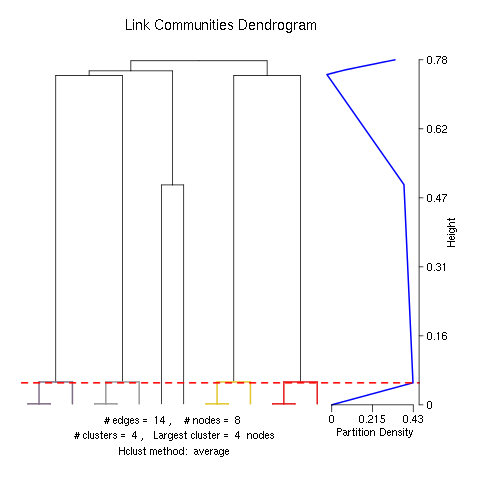
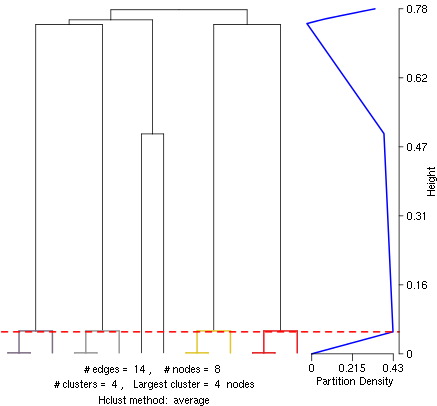
Modified images to fit better in report. Updated captions.

diff --git a/Report/report.tex b/Report/report.tex
@@ -1,9 +1,11 @@
-\documentclass{report}
+\documentclass{report} % change to article
 
 \usepackage[margin=1in]{geometry}
 \usepackage{url}
 \usepackage{graphicx}
 \usepackage{grffile}
+\usepackage{caption}
+\usepackage{subcaption}
 
 \graphicspath{{../ExampleDatasets/}}
 \DeclareGraphicsExtensions{.png}
@@ -61,114 +63,156 @@ Used a Python script to calculate link similarity between edges (based on linkco
 Used an R script to calculate attribute similarity between edges and combine the two similarity measures based on previous equation.
 Visualization of results was created using existing linkcomm R package (which itself used iGraph).\\
 
-Implementation heavily reused existing stuff\footnote{http://barabasilab.neu.edu/projects/linkcommunities/}. Available as open-source\footnote{https://github.com/jtan189/linkcomm}.
+Implementation heavily reused existing programs\footnote{http://barabasilab.neu.edu/projects/linkcommunities/}. Available as open-source\footnote{https://github.com/jtan189/linkcomm}.
 
 \subsection*{Toy Dataset \#1}
 
 \begin{figure}[htp!]
   \centering
-  \includegraphics[width=0.65\linewidth]{toy2/orig.png}
+  \includegraphics[width=0.55\linewidth]{toy2/orig.png}
   \caption{Original graph for Toy Dataset \#1.}
 \end{figure}
 
-Structural similarity only:
+\begin{figure}
+\centering
+\begin{subfigure}{.5\textwidth}
+  \centering
+  \includegraphics[width=.8\linewidth]{toy2/no_ea/edge_comm.png}
+  \caption{Using structural similarity only.}
+  \label{fig:sub1}
+\end{subfigure}%
+\begin{subfigure}{.5\textwidth}
+  \centering
+  \includegraphics[width=.9\linewidth]{toy2/ea/edge_comm_0.1.png}
+  \caption{Using both, 10\% structural.}
+  \label{fig:sub2}
+\end{subfigure}
+\caption{Communities extracted from Toy Dataset \#1.}
+\label{fig:test}
+\end{figure}
+
+% \begin{figure}[htp!]
+%   \centering
+%   \includegraphics[width=0.65\linewidth]{toy2/no_ea/edge_comm.png}
+%   \caption{Communities using structural similarity only.}
+% \end{figure}
+
+% \begin{figure}[htp!]
+%   \centering
+%   \includegraphics[width=0.65\linewidth]{toy2/no_ea/lc.png}
+%   \caption{Link communities dendogram using structural similarity only.}
+% \end{figure}
+
+
+% \begin{figure}[htp!]
+%   \centering
+%   \includegraphics[width=0.65\linewidth]{toy2/ea/edge_comm_0.1.png}
+%   \caption{Communities using both, 10 percent structural.}
+% \end{figure}
 
 \begin{figure}[htp!]
   \centering
-  \includegraphics[width=0.65\linewidth]{toy2/no_ea/edge_comm.png}
-  \caption{Communities using structural similarity only.}
+  \includegraphics[width=0.5\linewidth]{toy2/ea/edge_comm_0.25.png}
+  \caption{Communities for Toy Dataset \#1. Using both, 25\% structural.}
 \end{figure}
 
 \begin{figure}[htp!]
   \centering
-  \includegraphics[width=0.65\linewidth]{toy2/no_ea/lc.png}
-  \caption{Link communities dendogram using structural similarity only.}
-\end{figure}
-
-Structural similarity and edge attribute similarity:
-
-\begin{figure}[htp!]
-  \centering
-  \includegraphics[width=0.65\linewidth]{toy2/ea/edge_comm_0.1.png}
-  \caption{Communities using both, 10 percent structural.}
+  \includegraphics[width=0.6\linewidth]{toy2/ea/lc_0.1.png}
+  \caption{Link communities dendogram for Toy Dataset \#1. Using both, 10\% structural.}
 \end{figure}
 
 \begin{figure}[htp!]
   \centering
-  \includegraphics[width=0.65\linewidth]{toy2/ea/edge_comm_0.25.png}
-  \caption{Communities using both, 25 percent structural.}
+  \includegraphics[width=0.6\linewidth]{toy2/ea/lc_0.25.png}
+  \caption{Link communities dendogram for Toy Dataset \# 1. Using both, 25\% structural.}
 \end{figure}
 
-\begin{figure}[htp!]
+\begin{figure}
+\centering
+\begin{subfigure}{.4\textwidth}
   \centering
-  \includegraphics[width=0.65\linewidth]{toy2/ea/lc_0.1.png}
-  \caption{Link communities dendogram using both, 10 percent structural.}
-\end{figure}
-
-\begin{figure}[htp!]
+  \includegraphics[width=.7\linewidth]{toy2/ea/top20_0.1.png}
+  \caption{Using both, 10\% structural.}
+  \label{fig:sub3}
+\end{subfigure}%
+\begin{subfigure}{.6\textwidth}
   \centering
-  \includegraphics[width=0.65\linewidth]{toy2/ea/lc_0.25.png}
-  \caption{Link communities dendogram using both, 25 percent structural.}
+  \includegraphics[width=.6\linewidth]{toy2/ea/top20_0.25.png}
+  \caption{Using both, 25\% structural.}
+  \label{fig:sub4}
+\end{subfigure}
+\caption{Community membership for Toy Dataset \#1.}
+\label{fig:test2}
 \end{figure}
 
-\begin{figure}[htp!]
-  \centering
-  \includegraphics[width=0.65\linewidth]{toy2/ea/top20_0.1.png}
-  \caption{Community membership using both, 10 percent structural.}
-\end{figure}
+% \begin{figure}[htp!]
+%   \centering
+%   \includegraphics[width=0.65\linewidth]{toy2/ea/top20_0.1.png}
+%   \caption{Community membership using both, 10 percent structural.}
+% \end{figure}
 
-\begin{figure}[htp!]
-  \centering
-  \includegraphics[width=0.65\linewidth]{toy2/ea/top20_0.25.png}
-  \caption{Community membership using both, 25 percent structural.}
-\end{figure}
-
-
-
+% \begin{figure}[htp!]
+%   \centering
+%   \includegraphics[width=0.65\linewidth]{toy2/ea/top20_0.25.png}
+%   \caption{Community membership using both, 25 percent structural.}
+% \end{figure}
 
 \subsection*{Toy Dataset \#2}
 
 \begin{figure}[htp!]
   \centering
-  \includegraphics[width=0.65\linewidth]{toy3/orig.png}
+  \includegraphics[width=0.5\linewidth]{toy3/orig.png}
   \caption{Original graph for toy Dataset \#2.}
 \end{figure}
 
+\begin{figure}
+\centering
+\begin{subfigure}{.5\textwidth}
+  \centering
+  \includegraphics[width=.8\linewidth]{toy3/no_ea/edge_comm.png}
+  \caption{Using structural similarity only.}
+  \label{fig:sub5}
+\end{subfigure}%
+\begin{subfigure}{.5\textwidth}
+  \centering
+  \includegraphics[width=.9\linewidth]{toy3/ea/edge_comm_0.25.png}
+  \caption{Using both. Unchanged from 10\% to 90\%.}
+  \label{fig:sub6}
+\end{subfigure}
+\caption{Communities extracted from Toy Dataset \#2.}
+\label{fig:test3}
+\end{figure}
 
-Structural similarity only:
+% \begin{figure}[htp!]
+%   \centering
+%   \includegraphics[width=0.65\linewidth]{toy3/no_ea/edge_comm.png}
+%   \caption{Communities using structural similarity only.}
+% \end{figure}
 
 \begin{figure}[htp!]
   \centering
-  \includegraphics[width=0.65\linewidth]{toy3/no_ea/edge_comm.png}
-  \caption{Communities using structural similarity only.}
+  \includegraphics[width=0.3\linewidth]{toy3/no_ea/top20.png}
+  \caption{Community membership for Toy Dataset \#2. Using structural similarity only.}
 \end{figure}
 
 \begin{figure}[htp!]
   \centering
-  \includegraphics[width=0.65\linewidth]{toy3/no_ea/lc.png}
-  \caption{Link communities dendogram using structural similarity only.}
+  \includegraphics[width=0.6\linewidth]{toy3/no_ea/lc.png}
+  \caption{Link communities dendogram for Toy Dataset \#2. Using structural similarity only.}
 \end{figure}
 
 \begin{figure}[htp!]
   \centering
-  \includegraphics[width=0.65\linewidth]{toy3/no_ea/top20.png}
-  \caption{Community membership using structural similarity only.}
+  \includegraphics[width=0.6\linewidth]{toy3/ea/lc_0.25.png}
+  \caption{Link communities dendogram for Toy Dataset \#2. Using both, 25\% structural.}
 \end{figure}
 
-Structural similarity and edge attribute similarity:
-
-
-\begin{figure}[htp!]
-  \centering
-  \includegraphics[width=0.65\linewidth]{toy3/ea/edge_comm_0.25.png}
-  \caption{Communities using both. Unchanged from 10\% to 90\%.}
-\end{figure}
-
-\begin{figure}[htp!]
-  \centering
-  \includegraphics[width=0.65\linewidth]{toy3/no_ea/lc.png}
-  \caption{Link communities dendogram both, 25\% structural.}
-\end{figure}
+% \begin{figure}[htp!]
+%   \centering
+%   \includegraphics[width=0.65\linewidth]{toy3/ea/edge_comm_0.25.png}
+%   \caption{Communities using both. Unchanged from 10\% to 90\%.}
+% \end{figure}
 
 \section*{Conclusions}
 
